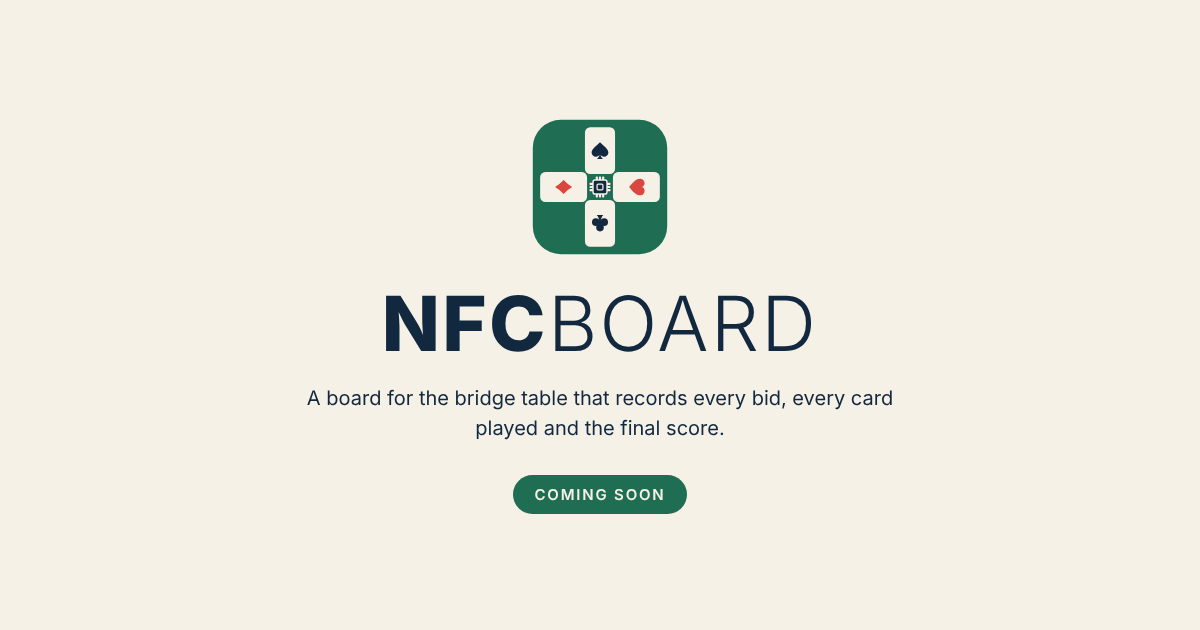
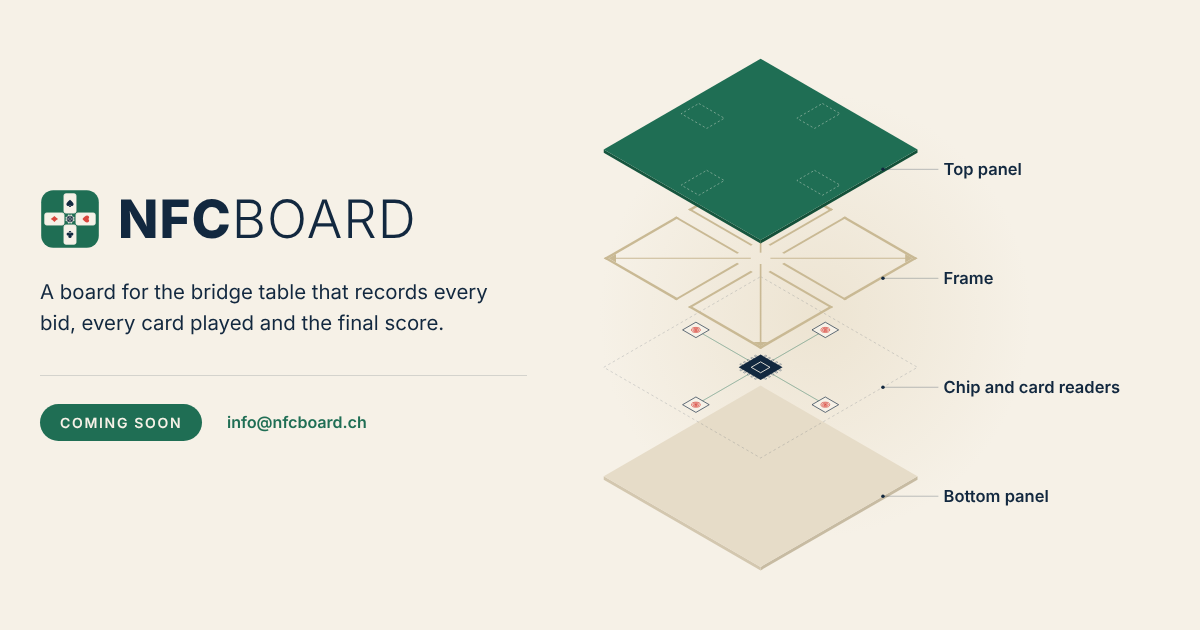
Redesign coming soon page around the exploded view
Two columns on wide screens (title, description, badge, email on the left;
animated exploded view on the right). On phones: title, drawing, then the rest.
The layers start stacked and slide apart when the page opens.

Claude-Session: https://claude.ai/code/session_01UbW5ravNri3MfxDfNnV52u

diff --git a/index.html b/index.html
@@ -12,13 +12,16 @@
   <meta property="og:description" content="A board for the bridge table that records every bid, every card played and the final score.">
   <meta property="og:url" content="https://nfcboard.ch/">
   <meta property="og:image" content="https://nfcboard.ch/assets/share-image.png">
-  <meta name="theme-color" content="#1F6E54">
+  <meta name="theme-color" content="#F6F1E7">
+  <link rel="preconnect" href="https://fonts.googleapis.com">
+  <link rel="preconnect" href="https://fonts.gstatic.com" crossorigin>
+  <link href="https://fonts.googleapis.com/css2?family=Inter:wght@300;400;600;800&display=swap" rel="stylesheet">
   <style>
     :root {
       --cream: #F6F1E7;
+      --cream-2: #EDE4D2;
       --navy: #12283F;
       --green: #1F6E54;
-      --red: #D9473E;
       --muted: #5A6878;
     }
     * { box-sizing: border-box; margin: 0; padding: 0; }
@@ -26,59 +29,119 @@
       background: var(--cream);
       color: var(--navy);
       font-family: Inter, "Segoe UI", Helvetica, Arial, sans-serif;
+      min-height: 100vh;
       display: flex;
       flex-direction: column;
+    }
+    main {
+      flex: 1;
+      width: 100%;
+      max-width: 1240px;
+      margin: 0 auto;
+      padding: 48px 40px 24px;
+      display: grid;
+      grid-template-columns: minmax(0, 5fr) minmax(0, 6fr);
       align-items: center;
-      justify-content: center;
-      text-align: center;
-      padding: 88px 16px 32px;
-      position: relative;
-      min-height: 100vh;
+      gap: 48px;
     }
-    .brand {
-      position: absolute; top: 20px; left: 24px;
-      display: flex; align-items: center; gap: 10px;
-      font-size: 22px; letter-spacing: 0.03em; line-height: 1;
+
+    /* text column */
+    .brand { display: flex; align-items: center; gap: 18px; }
+    .brand img { width: 60px; height: 60px; flex: none; }
+    h1 {
+      font-size: clamp(40px, 4.4vw, 62px);
+      letter-spacing: 0.02em;
+      line-height: 1;
+      font-weight: 300;
     }
-    .brand img { width: 36px; height: 36px; }
-    .brand b { font-weight: 800; }
-    .brand span { font-weight: 300; }
-    h1 { position: absolute; width: 1px; height: 1px; overflow: hidden; clip: rect(0 0 0 0); }
+    h1 b { font-weight: 800; }
     .tag {
-      margin-top: 36px;
-      font-size: clamp(17px, 4.2vw, 20px);
+      margin-top: 28px;
+      font-size: clamp(18px, 1.7vw, 22px);
       line-height: 1.5;
-      max-width: 32em;
-      color: var(--navy);
+      max-width: 24em;
+    }
+    .meta {
+      margin-top: 36px;
+      padding-top: 28px;
+      border-top: 1px solid rgba(18, 40, 63, 0.15);
+      display: flex;
+      align-items: center;
+      flex-wrap: wrap;
+      gap: 16px 24px;
     }
     .soon {
-      display: inline-block;
-      margin-top: 32px;
-      padding: 10px 22px;
+      padding: 10px 20px;
       border-radius: 999px;
       background: var(--green);
       color: var(--cream);
-      font-size: 15px;
+      font-size: 14px;
       font-weight: 600;
       letter-spacing: 0.12em;
       text-transform: uppercase;
     }
-    .contact { margin-top: 28px; }
-    .contact img { display: block; margin: 0 auto; }
-    .exploded { width: 100%; max-width: 620px; height: auto; }
-    footer { margin-top: 40px; font-size: 13px; color: var(--muted); }
+    .meta img { display: block; }
+
+    /* drawing column */
+    .board { position: relative; }
+    .board::before {
+      content: "";
+      position: absolute;
+      left: 4%; right: 22%; top: 8%; bottom: 8%;
+      border-radius: 50%;
+      background: radial-gradient(closest-side, var(--cream-2), rgba(237, 228, 210, 0));
+      z-index: 0;
+    }
+    .board img { position: relative; z-index: 1; display: block; width: 100%; height: auto; max-height: 84vh; }
+
+    footer {
+      width: 100%;
+      max-width: 1240px;
+      margin: 0 auto;
+      padding: 0 40px 28px;
+      font-size: 13px;
+      color: var(--muted);
+    }
+
+    /* phones and narrow windows: title, drawing, then the rest */
+    @media (max-width: 860px) {
+      main {
+        grid-template-columns: 1fr;
+        padding: 32px 16px 16px;
+        gap: 28px;
+        text-align: center;
+      }
+      .intro { display: contents; }
+      .brand { order: 1; justify-content: center; gap: 12px; }
+      .brand img { width: 48px; height: 48px; }
+      .board { order: 2; }
+      .board img { max-height: none; }
+      .rest { order: 3; }
+      .tag { margin: 0 auto; }
+      .meta { justify-content: center; flex-direction: column; margin-top: 24px; padding-top: 24px; }
+      footer { padding: 16px; text-align: center; }
+    }
   </style>
-  <link rel="preconnect" href="https://fonts.googleapis.com">
-  <link rel="preconnect" href="https://fonts.gstatic.com" crossorigin>
-  <link href="https://fonts.googleapis.com/css2?family=Inter:wght@300;400;600;800&display=swap" rel="stylesheet">
 </head>
 <body>
-  <div class="brand"><img src="assets/nfcboard-icon.svg" alt=""><div><b>NFC</b><span>BOARD</span></div></div>
-  <h1>NFCBOARD</h1>
-  <img class="exploded" src="assets/board-exploded.svg" alt="Exploded view of the board in four layers: top panel, frame, chip with card readers, bottom panel">
-  <p class="tag">A board for the bridge table that records every bid, every card played and the final score.</p>
-  <p class="soon">Coming soon</p>
-  <p class="contact"><img src="assets/email.png" alt="Email address" width="142" height="24"></p>
+  <main>
+    <div class="intro">
+      <div class="brand">
+        <img src="assets/nfcboard-icon.svg" alt="">
+        <h1><b>NFC</b>BOARD</h1>
+      </div>
+      <div class="rest">
+        <p class="tag">A board for the bridge table that records every bid, every card played and the final score.</p>
+        <div class="meta">
+          <span class="soon">Coming soon</span>
+          <img src="assets/email.png" alt="Email address" width="142" height="24">
+        </div>
+      </div>
+    </div>
+    <div class="board">
+      <img src="assets/board-exploded.svg" alt="Exploded view of the board in four layers: top panel, frame, chip and card readers, bottom panel">
+    </div>
+  </main>
   <footer>&copy; 2026 NFCBOARD</footer>
 </body>
 </html>

diff --git a/tools/exploded.py b/tools/exploded.py
@@ -13,7 +13,7 @@ B = 800.0
 S = 0.52                      # px per mm
 C30, S30 = math.cos(math.radians(30)), math.sin(math.radians(30))
 OX, OY = 470.0, 70.0          # where board corner (0,0) lands on the page
-GAP = 285.0                   # px between layers
+GAP = 250.0                   # px between layers
 
 GREEN, CREAM, NAVY, RED = "#1F6E54", "#F6F1E7", "#12283F", "#D9473E"
 GREEN_D, CREAM_D, FRAME = "#17563F", "#E6DCC8", "#C9B994"
@@ -56,12 +56,15 @@ def bar(x0, y0, x1, y1, w, lift, fill):
                  p(x1 - nx, y1 - ny, 0, lift), p(x0 - nx, y0 - ny, 0, lift)], fill)
 
 
-L1, L2, L3, L4 = 3 * GAP, 2 * GAP, 1 * GAP, 0.0   # top panel, frame, electronics, bottom panel
+L1 = L2 = L3 = L4 = 0.0   # every layer drawn flat at 0; CSS moves them apart
+LIFTS = [3 * GAP, 2 * GAP, GAP, 0.0]   # top panel, frame, electronics, bottom panel
 el = []
+groups = {}
 
 # ---- 4. bottom panel
 el += slab(L4, CREAM_D, "#D3C7AF", "#C7BBA2")
 
+groups['bottom'] = el; el = []
 # ---- 3. electronics
 mid = B / 2
 el.append(poly([p(0, 0, 0, L3), p(B, 0, 0, L3), p(B, B, 0, L3), p(0, B, 0, L3)], "none", NAVY, 1.2,
@@ -75,7 +78,7 @@ for rx, ry in readers + screens_at:
     el.append(f'<line x1="{a[0]:.1f}" y1="{a[1]:.1f}" x2="{b[0]:.1f}" y2="{b[1]:.1f}" {wire} opacity="0.55"/>')
 # readers: cream pad with red waves
 for rx, ry in readers:
-    h = 26
+    h = 34
     el.append(poly(rect(rx - h, ry - h, rx + h, ry + h, L3), CREAM, NAVY, 1.5))
     cx, cy = p(rx, ry, 0, L3)
     for r in (6, 11, 16):
@@ -83,14 +86,14 @@ for rx, ry in readers:
                   f'fill="none" stroke="{RED}" stroke-width="1.6"/>')
     el.append(f'<ellipse cx="{cx:.1f}" cy="{cy:.1f}" rx="2.6" ry="1.5" fill="{RED}"/>')
 # chip: navy square with cream legs, like the logo
-ch = 45
+ch = 56
 for i in range(5):
-    t = -ch + 15 + i * 15
+    t = -ch + (i + 1) * 2 * ch / 6
     for (x0, y0, x1, y1) in [(-ch - 10, t - 3, -ch, t + 3), (ch, t - 3, ch + 10, t + 3),
                              (t - 3, -ch - 10, t + 3, -ch), (t - 3, ch, t + 3, ch + 10)]:
         el.append(poly(rect(mid + x0, mid + y0, mid + x1, mid + y1, L3), CREAM, NAVY, 0.8))
 el.append(poly(rect(mid - ch, mid - ch, mid + ch, mid + ch, L3), NAVY))
-el.append(poly(rect(mid - 20, mid - 20, mid + 20, mid + 20, L3), "none", CREAM, 1.6))
+el.append(poly(rect(mid - 24, mid - 24, mid + 24, mid + 24, L3), "none", CREAM, 2))
 # screens: two back to back, standing on the diagonal near each end; plane along (-1, 1)
 SW, SH = 71.0, 53.0
 for sx, sy in screens_at:
@@ -109,6 +112,7 @@ for sx, sy in screens_at:
     el.append(f'<text x="{cx:.1f}" y="{cy + 4:.1f}" text-anchor="middle" font-size="12" fill="{CREAM}" '
               f'font-family="Segoe UI Symbol, DejaVu Sans, sans-serif">&#9824;&#9829;</text>')
 
+groups['elec'] = el; el = []
 # ---- 2. frame (border, seat rails, diagonals, centre box)
 lane0, lane1 = 370.0, 430.0
 wb, wr, wd = 12.5, 10.0, 6.0
@@ -137,39 +141,50 @@ for cx_, cy_ in [(0, 0), (B, 0), (B, B), (0, B)]:
                    p(cx_ + dx * wb, cy_ + dy * 50, 0, L2)], FRAME))
 el += f
 
+groups['frame'] = el; el = []
 # ---- 1. top panel (green, like the logo), with the card cross faintly marked
 el += slab(L1, GREEN, GREEN_D, "#145039")
 for (x0, y0, x1, y1) in [(mid - 45, 40, mid + 45, 170), (mid - 45, B - 170, mid + 45, B - 40),
                          (40, mid - 45, 170, mid + 45), (B - 170, mid - 45, B - 40, mid + 45)]:
     el.append(poly(rect(x0, y0, x1, y1, L1), "none", CREAM, 1.5, ' stroke-dasharray="5 5" opacity="0.6"'))
 
-# ---- labels on the left, with leader lines to each layer's left corner
-labels = [(L1, "Top panel"), (L2, "Frame"), (L3, "Chip and card readers"), (L4, "Bottom panel")]
-lab = []
-for lift, text in labels:
-    ax, ay = p(0, B * 0.75, 0, lift)
-    tx = 70
-    lab.append(f'<line x1="{tx + 4}" y1="{ay:.1f}" x2="{ax - 8:.1f}" y2="{ay:.1f}" stroke="{NAVY}" '
-               f'stroke-width="1" opacity="0.35"/>')
-    lab.append(f'<circle cx="{ax - 8:.1f}" cy="{ay:.1f}" r="3" fill="{NAVY}" opacity="0.6"/>')
-    lab.append(f'<text x="{tx}" y="{ay - 12:.1f}" text-anchor="end" font-size="34" font-weight="600" '
-               f'fill="{NAVY}">{text}</text>')
+groups['top'] = el
 
-xs, ys = [], []
-import re
-for s in el:
-    for m in re.finditer(r"(-?\d+\.\d),(-?\d+\.\d)", s):
-        xs.append(float(m.group(1))); ys.append(float(m.group(2)))
-minx = -400
-maxx = max(xs) + 20
-miny = min(ys) - 20
-maxy = max(ys) + 20
+# ---- labels on the right, joined to each layer's right edge; they travel with their layer
+NAMES = {"top": "Top panel", "frame": "Frame", "elec": "Chip and card readers", "bottom": "Bottom panel"}
+rx, _ = p(B, 0)
+TX = rx + 60
+labels = {}
+for key, name in NAMES.items():
+    ax, ay = p(B, B * 0.22)
+    labels[key] = (f'<g class="lab"><circle cx="{ax:.1f}" cy="{ay:.1f}" r="4" fill="{NAVY}"/>'
+                   f'<line x1="{ax:.1f}" y1="{ay:.1f}" x2="{TX - 12:.1f}" y2="{ay:.1f}" stroke="{NAVY}" stroke-width="1.5" opacity="0.4"/>'
+                   f'<text x="{TX:.1f}" y="{ay + 13:.1f}" font-size="38" font-weight="600" fill="{NAVY}">{name}</text></g>')
+
+lx, _ = p(0, B)
+_, ty = p(0, 0)
+_, by = p(B, B)
+minx, maxx = lx - 10, TX + 440
+miny, maxy = ty - LIFTS[0] - 20, by + 30
 vb = f"{minx:.0f} {miny:.0f} {maxx - minx:.0f} {maxy - miny:.0f}"
 
+# collapsed: layers start stacked close together, then move apart (exploded)
+order = ["bottom", "elec", "frame", "top"]
+lift = {"top": LIFTS[0], "frame": LIFTS[1], "elec": LIFTS[2], "bottom": LIFTS[3]}
+css = ["svg{overflow:visible}",
+       ".layer{animation:1.6s cubic-bezier(.2,.7,.2,1) .4s both}",
+       ".lab{animation:lab .6s ease-out 1.8s both}",
+       "@keyframes lab{from{opacity:0}}",
+       "@media (prefers-reduced-motion:reduce){.layer,.lab{animation:none}}"]
+for i, k in enumerate(order):
+    start = i * 14
+    css.append(f".{k}{{transform:translateY({-lift[k]:.0f}px);animation-name:{k}}}"
+               f"@keyframes {k}{{from{{transform:translateY({-start}px)}}}}")
+body = "".join(f'<g class="layer {k}">' + "".join(groups[k]) + labels[k] + "</g>" for k in order)
 svg = (f'<svg xmlns="http://www.w3.org/2000/svg" viewBox="{vb}" role="img" '
        f'font-family="Inter, Segoe UI, Helvetica, Arial, sans-serif">'
-       f'<title>NFCBOARD exploded view: top panel, frame, electronics, bottom panel</title>'
-       + "".join(el) + "".join(lab) + "</svg>")
+       f'<title>NFCBOARD exploded view: top panel, frame, chip and card readers, bottom panel</title>'
+       f'<style>{"".join(css)}</style>' + body + "</svg>")
 out = os.path.join(os.path.dirname(os.path.abspath(__file__)), "..", "assets", "board-exploded.svg")
 open(out, "w").write(svg)
 print(out, vb, len(svg))
